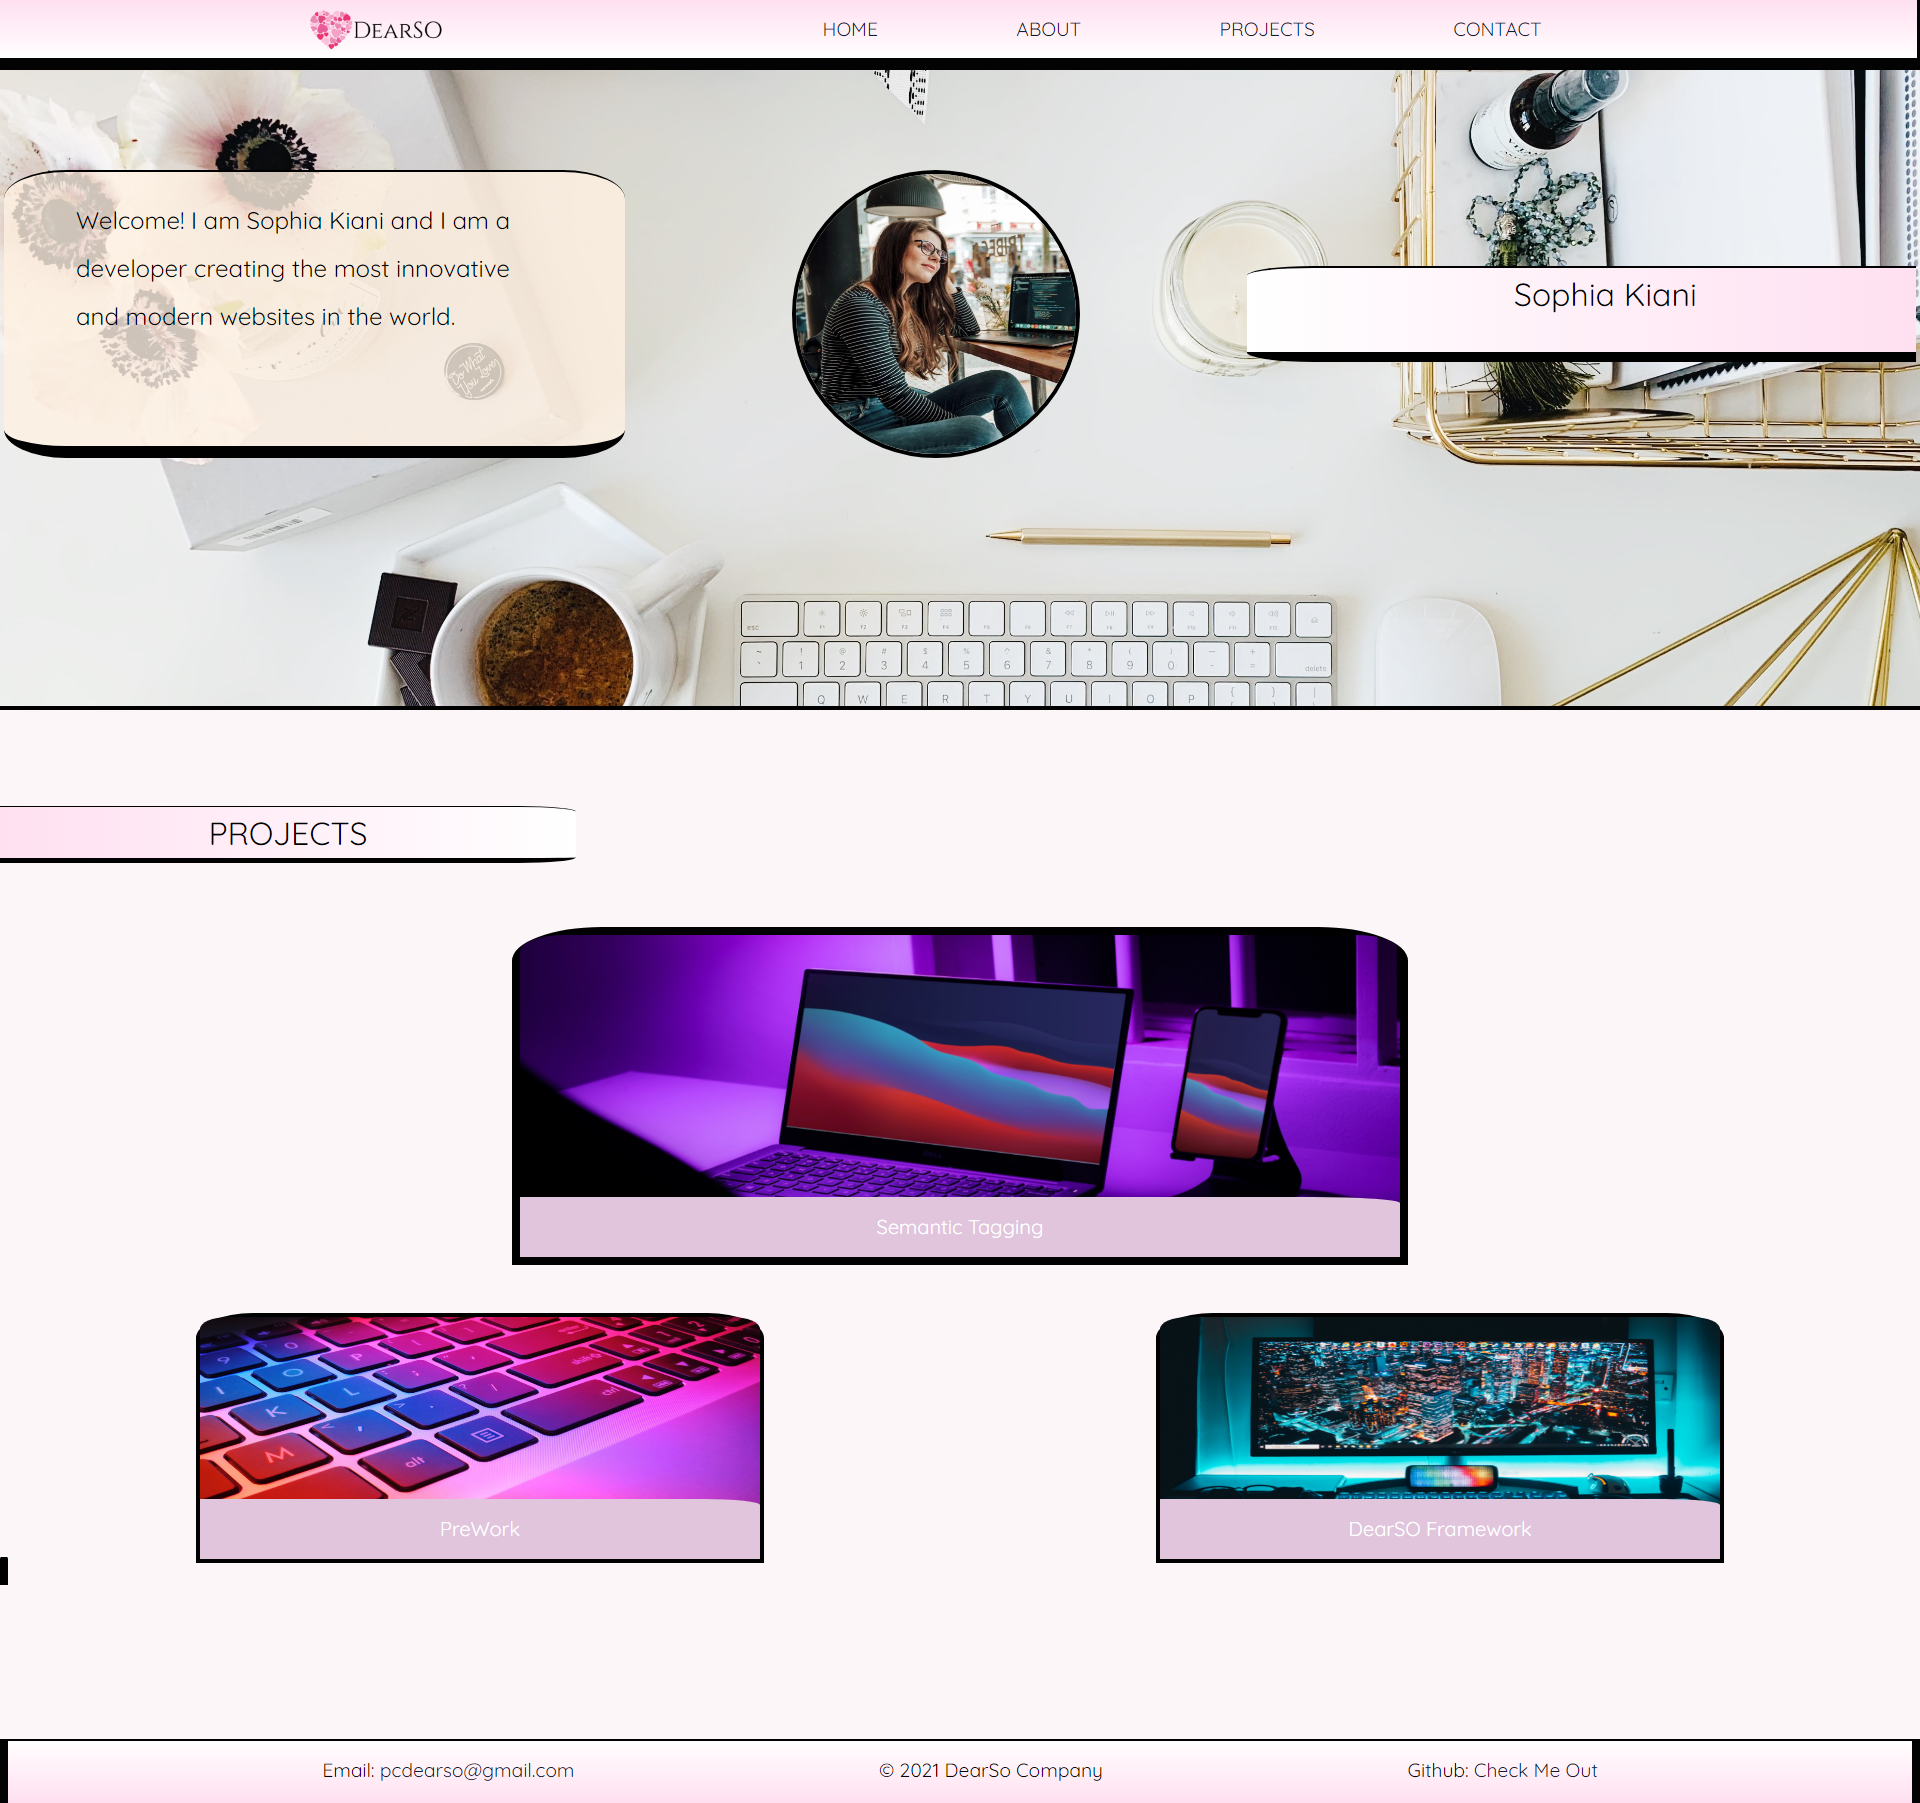
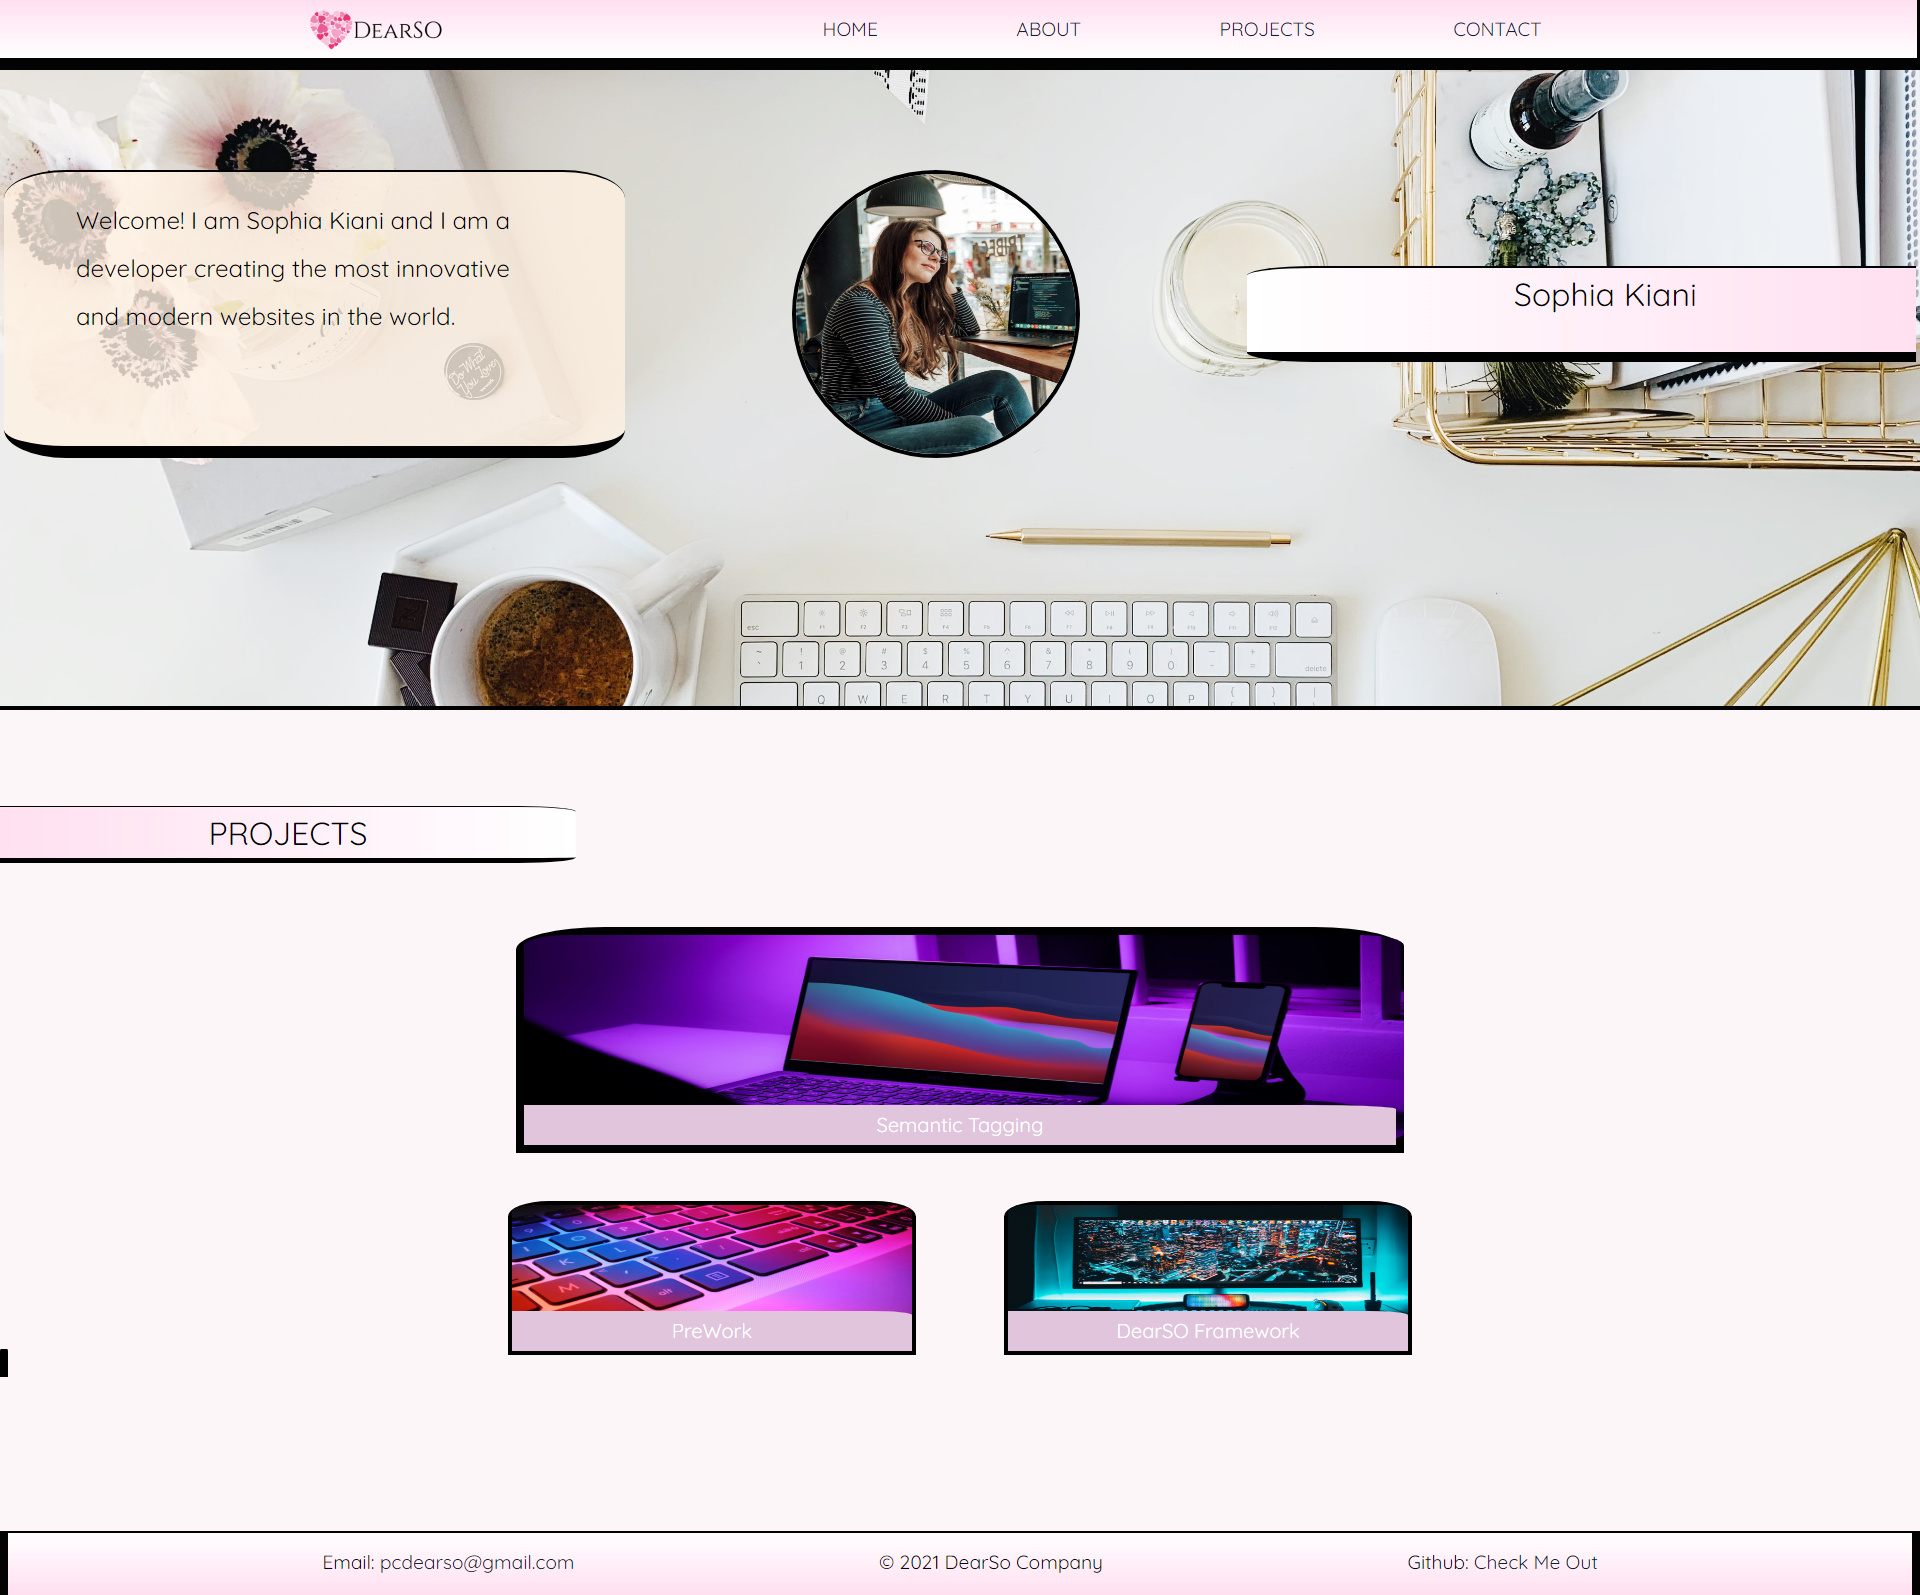
updated the style.css file and added more comments

diff --git a/assets/css/style.css b/assets/css/style.css
@@ -98,7 +98,7 @@ nav {
   border-right: rgb(3, 3, 3) .2em solid;
   border-bottom: rgb(3, 3, 3) .75em solid;
   top: 0;
-  height: 70px;
+  height: 5em ;
   width: 100%;
   display: flex;
   justify-content: space-evenly;
@@ -107,19 +107,13 @@ nav {
 }
 
 nav ul {
-  padding:0;
-  margin: 0;
   display: flex;
-  justify-content: space-evenly;
 }
 
 nav li  {
-  display: flex;
-  justify-content: space-evenly;
   padding: .2em 2.5em;
   margin: 1.5em 1em;
   font-size: 1.2em;
-  border-radius: 40% 0 40% 0;
   border:rgba(255, 255, 255, 0) solid 2px;
 }
 
@@ -144,36 +138,33 @@ nav a:hover, a:active {
 #about {
   position: relative;
   width: 100%;
-  height: 40em;
+  height: 30em;
   background-image: url(../images/body.jpg);
   border-bottom: solid black .3em;
   background-repeat: no-repeat;
   background-size: cover;
-  
 }
 
-.about_container_main { /*Add the main layout for flexbox in about section*/
+/* The two selectors below determin flex box layout */
+.about_container_main { 
   display:flex;
   flex-flow: row-reverse;
   justify-items: center;
   align-items: center;
-  padding: .25em;
-  
 }
 
 .about_container_section {
   margin: 6em 0em;
-  flex: 1;
   width: 33.3%;
 }
 
+/* The two selectors below add style to the name area*/
 .about_background {
   padding: 0 0 0 3em;
   background-image:linear-gradient(to right, rgb(255, 255, 255) , rgb(255, 224, 241));
   border-radius: 10% 0% 0 10% ;
   border-top: 2px black solid;
-  border-bottom: 10px black solid;
-  height: 6em;
+  border-bottom: 10px black solid; 
 }
 
 .about_background h1{
@@ -186,14 +177,13 @@ nav a:hover, a:active {
 
 .about_bio {
   background-color: rgba(255, 242, 227, 0.8);
-  border-radius: 10% 10% 10% 10%;
+  border-radius: 0 10% 10% 0%;
   border-top:rgb(0, 0, 0) 2px solid;
   border-bottom:rgb(0, 0, 0) .75em solid; 
   min-height: 18em;
 }
 
 .about_bio h2 {
-  flex-shrink: 2;
   padding: 1em 3em;
   font-size: 1.5em;
   font-weight: 100;
@@ -202,16 +192,14 @@ nav a:hover, a:active {
 
 .about_picture  {
   display: flex;
-  justify-items: center;
-  align-content: center;
   justify-content: center;
   align-items: center;
 }
 
 .about_picture img {
   border-radius: 100%;
-  height: 18em;
-  width: 18em;
+  height: 20em;
+  width: 20em;
   border:black solid 4px;
 }
 
@@ -237,7 +225,8 @@ nav a:hover, a:active {
   margin: 3em 0 2em 0;
 }
 
-.project_1 { /*all of the elements for the first projects is seperate*/
+/*project_1 section does not follow the ohter project flex-box style*/
+.project_1 { 
   display: flex;
   justify-items: space-evenly;
   justify-content: space-evenly;
@@ -250,24 +239,25 @@ nav a:hover, a:active {
   background-repeat: no-repeat;
   background-size: cover;
   width: 55em;
-  height: 20em;
+  height: 13em;
   border-radius: 5%;
 }
 
 .image_container_1 {
   position: relative;
-  width: 56em;
+  width: 55.5em;
   border: .5em solid black;
   border-radius: 10% 10% 0 0;
 } 
 
-.project_container_main { /*Add the main layout for flexbox in about section*/
+ /*Add the main layout for flexbox for project 2&3 section*/
+.project_container_main {
   position: relative;
   display:flex;
   flex-wrap: row wrap;
   justify-content: space-around;
   align-items: center;
- 
+  margin: 0 29em;
 }
 
 .project_2 {
@@ -279,8 +269,8 @@ nav a:hover, a:active {
 .project_2 img {
   background-repeat: no-repeat;
   background-size: cover;
-  width: 35em;
-  height: 15em;
+  width: 25em;
+  height: 9em;
   border-radius: 5%;
 }
 
@@ -294,19 +284,21 @@ nav a:hover, a:active {
 .project_3 img {
   background-repeat: no-repeat;
   background-size: cover;
-  width: 35em;
-  height: 15em;
+  width: 25em;
+  height: 9em;
   border-radius: 5%;
 }
 
+
 .image_container {
   position: relative;
-  width: 35.5em;
+  width: 25.5em;
   border: .25em solid black;
   border-radius: 10% 10% 0 0;
 } 
 
-.image_title{
+/*Added to all projects regardless of flex-box*/ 
+.image_title {
   position: absolute;
   bottom: 0;
   background: rgb(224, 197, 221);
@@ -316,13 +308,13 @@ nav a:hover, a:active {
   opacity:1;
   color: white;
   font-size: 20px;
-  padding: 20px;
+  padding: 10px;
   text-align: center;
 }
 
-.image_container a:hover, a:active {
-  background-color: rgba(238, 230, 216, 0.432);
-  transition: .5s ease;
+img a:hover {
+  background-color: rgba(66, 43, 2, 0.432);
+  z-index: 10000;
 }
 
 /************************ 6.0 - Footer ********************/
@@ -364,26 +356,39 @@ footer a:hover, a:active {
 
 
 /*********************** 7.0 Responsive *******************/
-@media screen and (max-width:992px) { 
 
-} 
-
-
-@media screen and (max-width:768px) {
-  
-  nav li,
-  .about_container_section {
-    display: flex;
-    flex-direction: column;
-    flex-wrap:wrap;
+@media screen and (max-width:992px) {
+  nav ul {
+    position: absolute;
+    top: 75px;
+    right: 0;
     width: 100%;
+    z-index: 2;
+    display: inline-block;
   }
+
+  nav li {
+    display: block;
+  }
+
+  nav {
+    height: 20em;
+    position: relative;
+  }
+
+  nav img {
+    display: flex;
+    align-items: flex-start;
+  }
+
+  #about {
+    height: 60em;
+  }
+
+  #about h1 {
+    
+  }
+
 }
 
-@media screen and (max-width:576px) {
-  .about_container_section {
-    width: 100%
-  }
-  .project_2 {
-    height: 100%;
-}
+

diff --git a/index.html b/index.html
@@ -6,6 +6,9 @@
 ||      //  ||_____  //      \\  || \\     _____ || \ \   / /
 ||_____//   |______|//        \\ ||   \\  |_____ /    \\_//
 
+Author: Sophia Kiani
+Date: 09/16/2021
+Purpose: First draft of profolio
 ------------------------------------------------------------->
 
 <!DOCTYPE html>
@@ -56,7 +59,7 @@
     <!--Projects Section-->
     <section id="projects">
       <div class="project_header">PROJECTS</div> 
-        <a class="project_1" herf="https://github.com/soph-k/semantic_tagging" target="_blank"> <!--Enable clickable images theat redirect to another webpage-->
+        <a class="project_1" href="https://github.com/soph-k/semantic_tagging" target="_blank"> <!--Enable clickable images theat redirect to another webpage-->
           <div class="image_container_1">
             <img src="./assets/images/project_1.jpg" alt="Semantic Tagging">
             <div class="image_title">Semantic Tagging</div>
@@ -65,7 +68,7 @@
 
         <div class="project_container_main">
         <!-- <div class="image_container "> -->
-        <a  class="image_container project_2" herf="https://github.com/soph-k/prework-about-me">
+        <a  class="image_container project_2" href="https://github.com/soph-k/prework-about-me">
             <img src="./assets/images/project_2.jpg" alt="PreWork">
             <div class="image_title">PreWork</div>
           </a>
@@ -73,10 +76,9 @@
       
        
         <!-- <div class="image_container"> -->
-        <a class="project_3 image_container"  herf="https://github.com/soph-k/sophia_kiani_portfolio">
+        <a class="project_3 image_container"  href="https://github.com/soph-k/sophia_kiani_portfolio">
           <img src="./assets/images/project_3.jpg" alt="DearSO Framework">
           <div class="image_title">DearSO Framework</div>
-        </div>
         </a>
       </div>
     </section>
